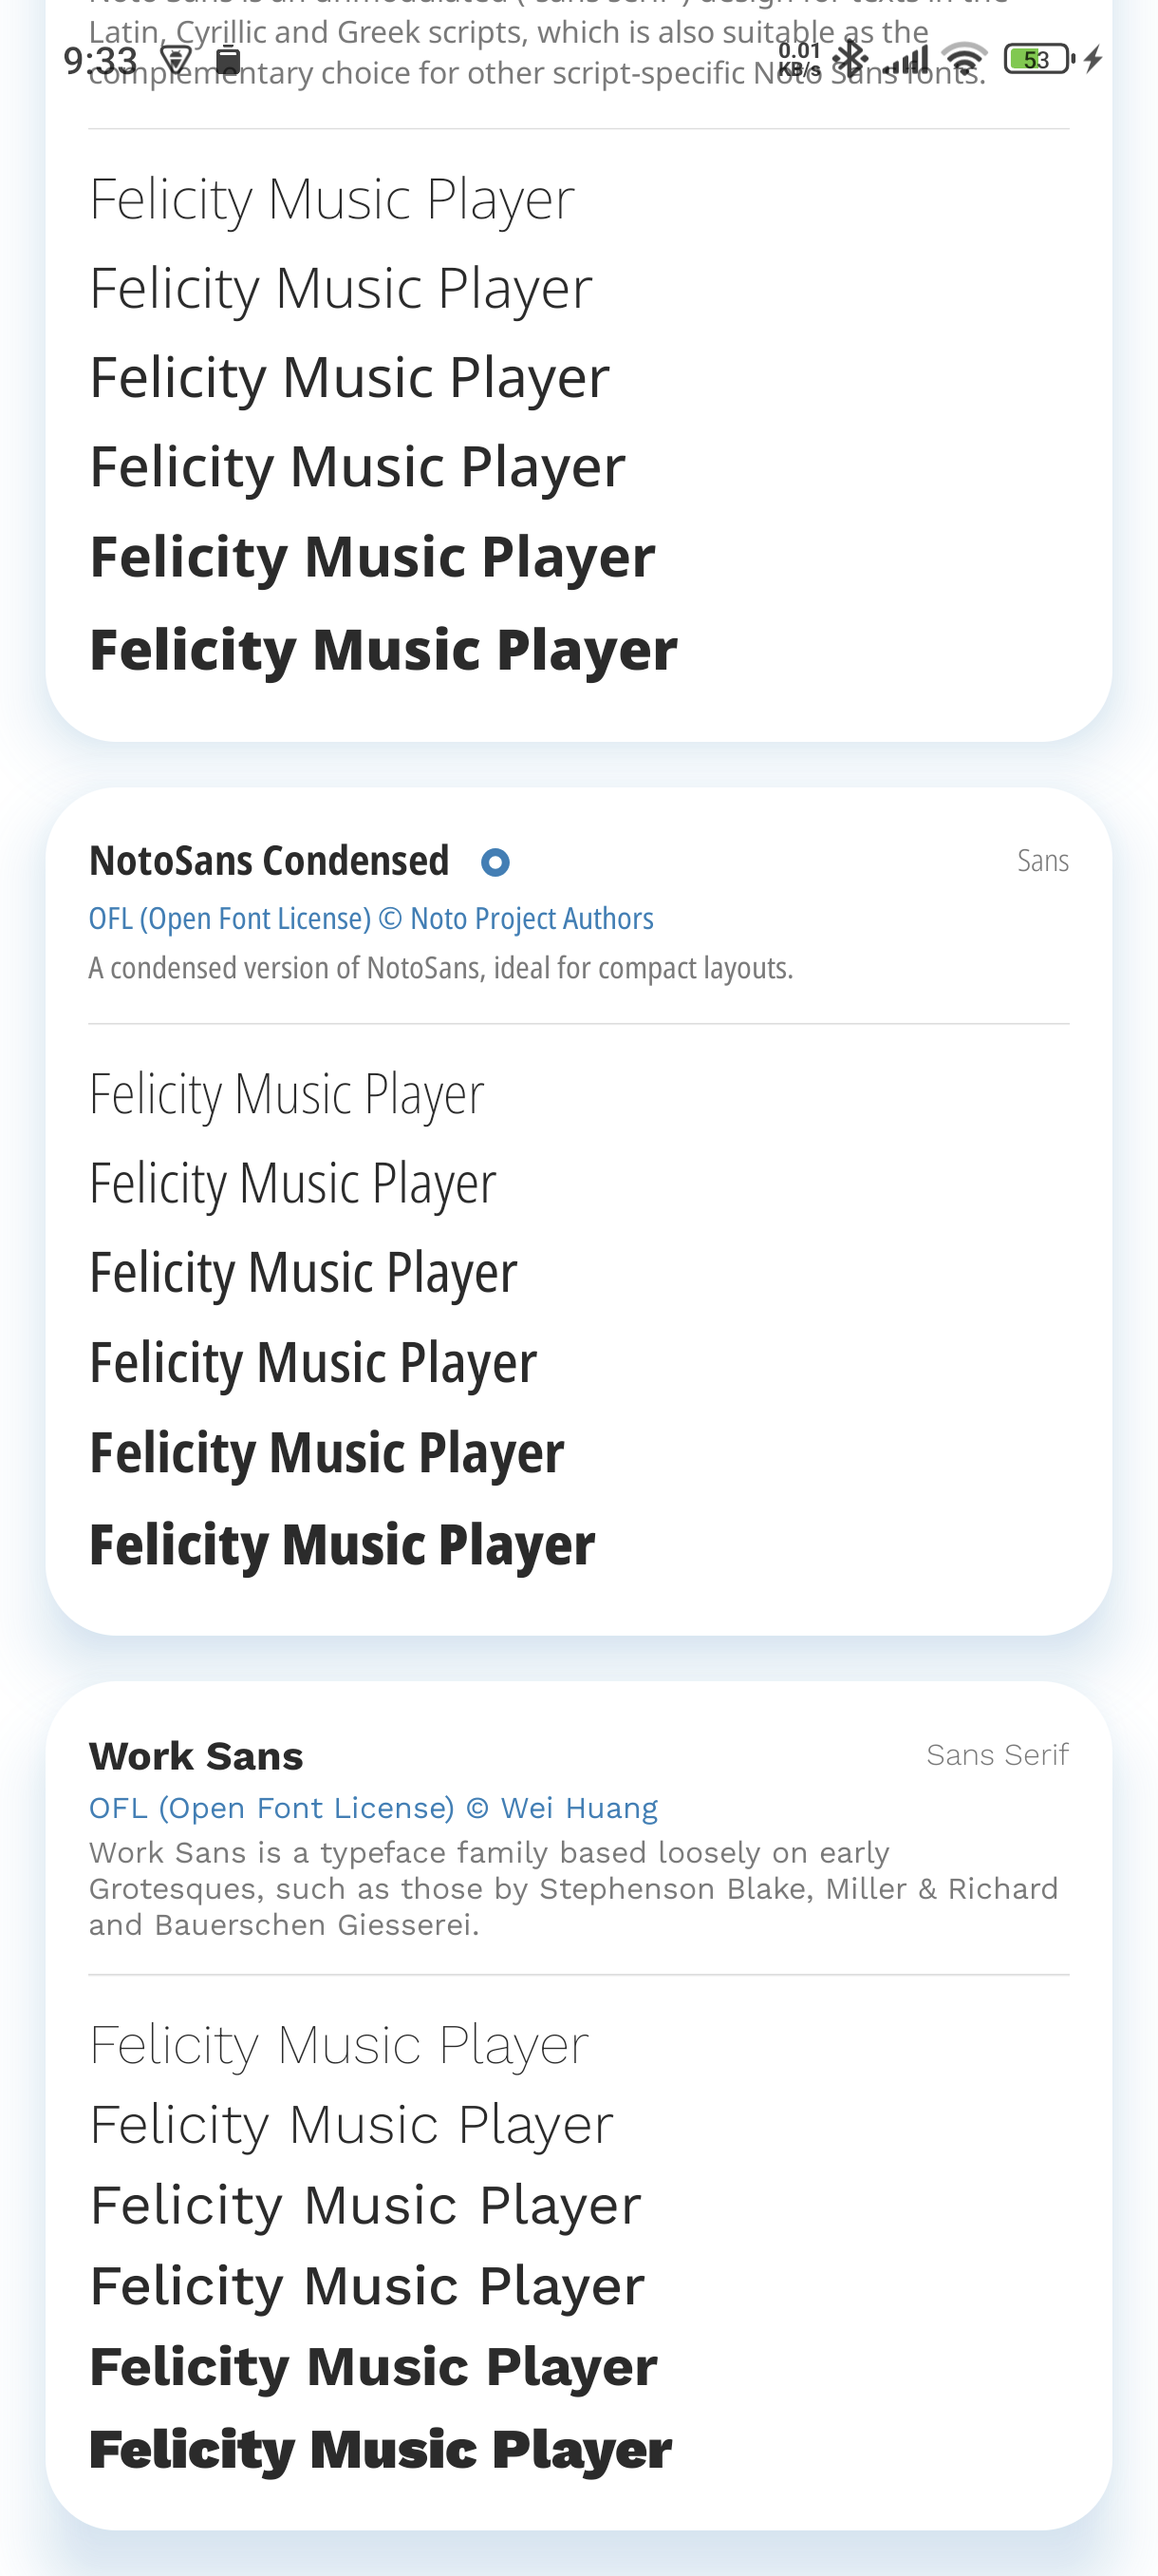
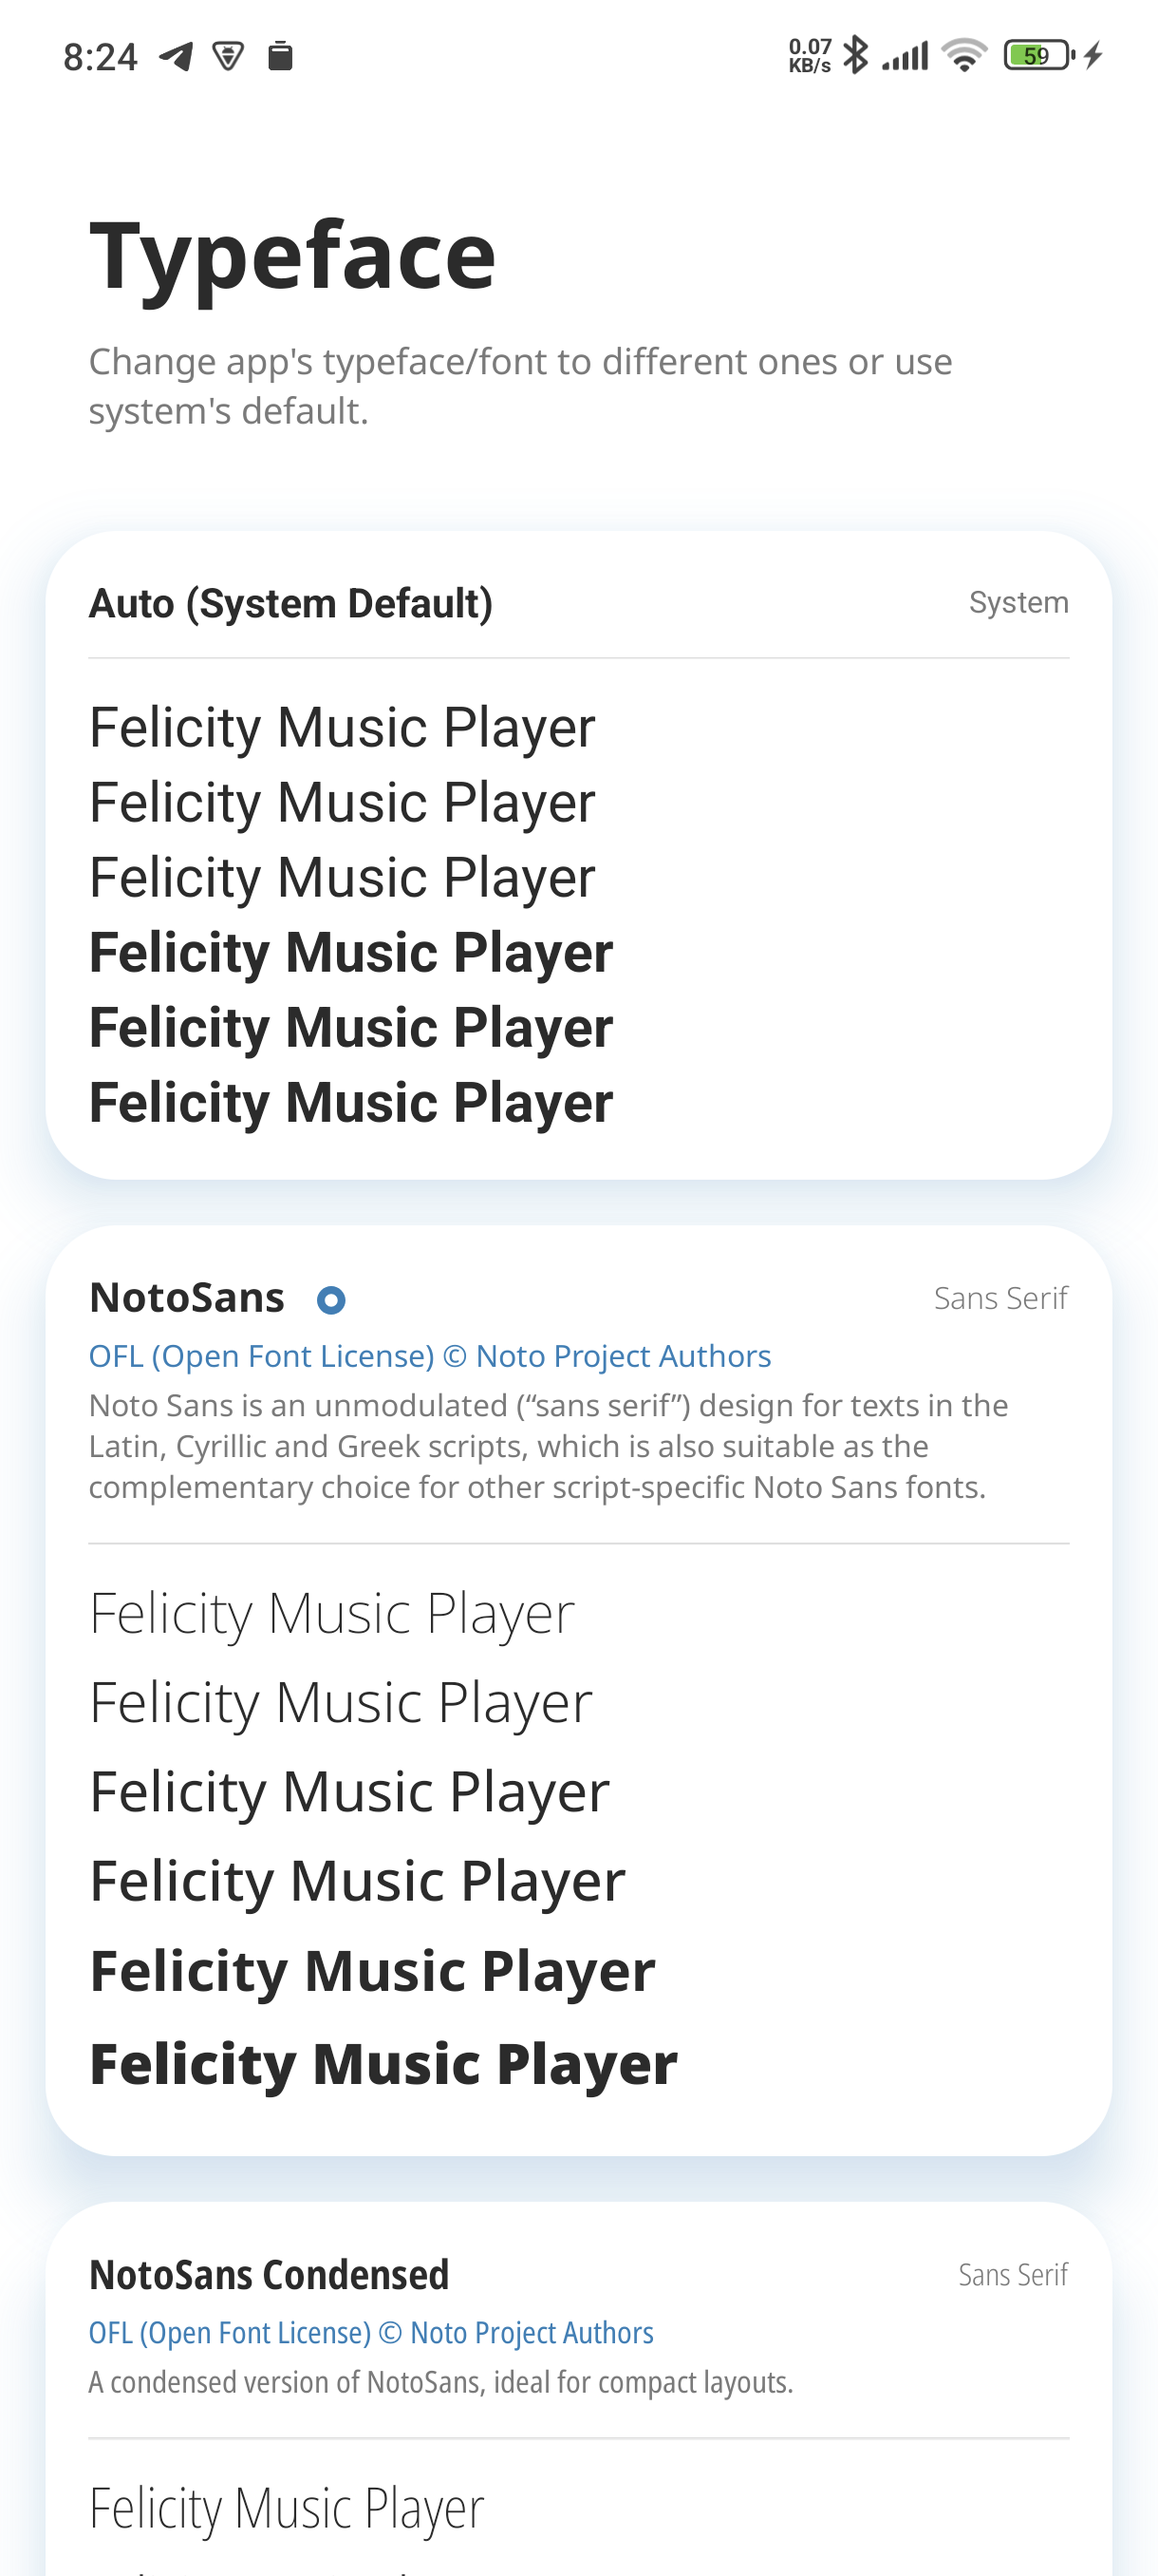
update: typeface style

diff --git a/music/src/main/java/app/simple/felicity/adapters/preference/AdapterTypefaceItem.kt b/music/src/main/java/app/simple/felicity/adapters/preference/AdapterTypefaceItem.kt
@@ -4,56 +4,74 @@ import android.view.LayoutInflater
 import android.view.ViewGroup
 import androidx.recyclerview.widget.RecyclerView
 import app.simple.felicity.R
+import app.simple.felicity.databinding.AdapterPreferenceHeaderBinding
 import app.simple.felicity.databinding.AdapterTypefaceItemBinding
 import app.simple.felicity.decorations.overscroll.VerticalListViewHolder
 import app.simple.felicity.decorations.typeface.TypeFace
 import app.simple.felicity.decorations.typeface.TypefaceStyle
+import app.simple.felicity.decorations.utils.RecyclerViewUtils
 import app.simple.felicity.preferences.AppearancePreferences
 
-class AdapterTypefaceItem : RecyclerView.Adapter<AdapterTypefaceItem.Holder>() {
+class AdapterTypefaceItem : RecyclerView.Adapter<VerticalListViewHolder>() {
 
     private val typefaces = TypeFace.list
 
-    override fun onCreateViewHolder(parent: ViewGroup, viewType: Int): Holder {
-        val binding = AdapterTypefaceItemBinding.inflate(LayoutInflater.from(parent.context), parent, false)
-        return Holder(binding)
+    override fun onCreateViewHolder(parent: ViewGroup, viewType: Int): VerticalListViewHolder {
+        when (viewType) {
+            RecyclerViewUtils.TYPE_HEADER -> {
+                val binding = AdapterPreferenceHeaderBinding.inflate(LayoutInflater.from(parent.context), parent, false)
+                return Header(binding)
+            }
+            RecyclerViewUtils.TYPE_ITEM -> {
+                val binding = AdapterTypefaceItemBinding.inflate(LayoutInflater.from(parent.context), parent, false)
+                return Holder(binding)
+            }
+            else -> throw IllegalStateException("unknown view type")
+        }
     }
 
-    override fun onBindViewHolder(holder: Holder, position: Int) {
-        val typeface = typefaces[position]
-        holder.binding.name.text = typeface.typefaceName
-        holder.binding.type.text = typeface.type
-        holder.binding.license.text = typeface.license
-        holder.binding.description.text = typeface.description
+    override fun onBindViewHolder(holder: VerticalListViewHolder, position: Int) {
+        if (holder is Holder) {
+            val typeface = typefaces[position - 1]
+            holder.binding.name.text = typeface.typefaceName
+            holder.binding.type.text = typeface.type
+            holder.binding.license.text = typeface.license
+            holder.binding.description.text = typeface.description
 
-        if (position == 0) {
-            holder.binding.license.visibility = ViewGroup.GONE
-            holder.binding.description.visibility = ViewGroup.GONE
-        } else {
-            holder.binding.license.visibility = ViewGroup.VISIBLE
-            holder.binding.description.visibility = ViewGroup.VISIBLE
-        }
+            if (position == 1) {
+                holder.binding.license.visibility = ViewGroup.GONE
+                holder.binding.description.visibility = ViewGroup.GONE
+            } else {
+                holder.binding.license.visibility = ViewGroup.VISIBLE
+                holder.binding.description.visibility = ViewGroup.VISIBLE
+            }
 
-        if (typeface.name == AppearancePreferences.getAppFont()) {
-            holder.binding.name.setCompoundDrawablesWithIntrinsicBounds(0, 0, R.drawable.ic_ring_12dp, 0)
-        } else {
-            holder.binding.name.setCompoundDrawablesWithIntrinsicBounds(0, 0, 0, 0)
-        }
+            if (typeface.name == AppearancePreferences.getAppFont()) {
+                holder.binding.name.setCompoundDrawablesWithIntrinsicBounds(0, 0, R.drawable.ic_ring_12dp, 0)
+            } else {
+                holder.binding.name.setCompoundDrawablesWithIntrinsicBounds(0, 0, 0, 0)
+            }
 
-        holder.binding.name.typeface = TypeFace.getTypeFace(typeface.name, TypefaceStyle.BOLD.style, holder.context)
-        holder.binding.license.typeface = TypeFace.getTypeFace(typeface.name, TypefaceStyle.REGULAR.style, holder.context)
-        holder.binding.description.typeface = TypeFace.getTypeFace(typeface.name, TypefaceStyle.REGULAR.style, holder.context)
-        holder.binding.type.typeface = TypeFace.getTypeFace(typeface.name, TypefaceStyle.LIGHT.style, holder.context)
-        holder.binding.extraLight.typeface = TypeFace.getTypeFace(typeface.name, TypefaceStyle.EXTRA_LIGHT.style, holder.context)
-        holder.binding.light.typeface = TypeFace.getTypeFace(typeface.name, TypefaceStyle.LIGHT.style, holder.context)
-        holder.binding.regular.typeface = TypeFace.getTypeFace(typeface.name, TypefaceStyle.REGULAR.style, holder.context)
-        holder.binding.medium.typeface = TypeFace.getTypeFace(typeface.name, TypefaceStyle.MEDIUM.style, holder.context)
-        holder.binding.bold.typeface = TypeFace.getTypeFace(typeface.name, TypefaceStyle.BOLD.style, holder.context)
-        holder.binding.black.typeface = TypeFace.getTypeFace(typeface.name, TypefaceStyle.BLACK.style, holder.context)
+            holder.binding.name.typeface = TypeFace.getTypeFace(typeface.name, TypefaceStyle.BOLD.style, holder.context)
+            holder.binding.license.typeface = TypeFace.getTypeFace(typeface.name, TypefaceStyle.REGULAR.style, holder.context)
+            holder.binding.description.typeface = TypeFace.getTypeFace(typeface.name, TypefaceStyle.REGULAR.style, holder.context)
+            holder.binding.type.typeface = TypeFace.getTypeFace(typeface.name, TypefaceStyle.LIGHT.style, holder.context)
+            holder.binding.extraLight.typeface = TypeFace.getTypeFace(typeface.name, TypefaceStyle.EXTRA_LIGHT.style, holder.context)
+            holder.binding.light.typeface = TypeFace.getTypeFace(typeface.name, TypefaceStyle.LIGHT.style, holder.context)
+            holder.binding.regular.typeface = TypeFace.getTypeFace(typeface.name, TypefaceStyle.REGULAR.style, holder.context)
+            holder.binding.medium.typeface = TypeFace.getTypeFace(typeface.name, TypefaceStyle.MEDIUM.style, holder.context)
+            holder.binding.bold.typeface = TypeFace.getTypeFace(typeface.name, TypefaceStyle.BOLD.style, holder.context)
+            holder.binding.black.typeface = TypeFace.getTypeFace(typeface.name, TypefaceStyle.BLACK.style, holder.context)
 
-        holder.binding.container.setOnClickListener {
-            AppearancePreferences.setAppFont(typeface.name)
-            notifyDataSetChanged()
+            holder.binding.container.setOnClickListener {
+                AppearancePreferences.setAppFont(typeface.name)
+                notifyDataSetChanged()
+            }
+        } else if (holder is Header) {
+            holder.binding.title.text = holder.context.getString(R.string.typeface)
+            holder.binding.summary.text = holder.context.getString(R.string.typeface_summary)
+            holder.binding.title.typeface = TypeFace.getTypeFace(AppearancePreferences.getAppFont(), TypefaceStyle.BOLD.style, holder.context)
+            holder.binding.summary.typeface = TypeFace.getTypeFace(AppearancePreferences.getAppFont(), TypefaceStyle.REGULAR.style, holder.context)
         }
     }
 
@@ -61,5 +79,15 @@ class AdapterTypefaceItem : RecyclerView.Adapter<AdapterTypefaceItem.Holder>() {
         return typefaces.size
     }
 
+    override fun getItemViewType(position: Int): Int {
+        return if (position == 0) {
+            RecyclerViewUtils.TYPE_HEADER
+        } else {
+            RecyclerViewUtils.TYPE_ITEM
+        }
+    }
+
     inner class Holder(val binding: AdapterTypefaceItemBinding) : VerticalListViewHolder(binding.root)
+
+    inner class Header(val binding: AdapterPreferenceHeaderBinding) : VerticalListViewHolder(binding.root)
 }

diff --git a/decorations/src/main/java/app/simple/felicity/decorations/typeface/TypeFaceTextView.kt b/decorations/src/main/java/app/simple/felicity/decorations/typeface/TypeFaceTextView.kt
@@ -225,6 +225,10 @@ open class TypeFaceTextView : AppCompatTextView, ThemeChangedListener, SharedPre
                 setTextColor(animate = true)
                 setDrawableTint(animate = true)
             }
+            AppearancePreferences.APP_FONT -> {
+                typeface = TypeFace.getTypeFace(AppearancePreferences.getAppFont(), fontStyle, context)
+                invalidate()
+            }
         }
     }
 

diff --git a/preferences/src/main/java/app/simple/felicity/preferences/AppearancePreferences.kt b/preferences/src/main/java/app/simple/felicity/preferences/AppearancePreferences.kt
@@ -23,7 +23,7 @@ object AppearancePreferences {
     const val THEME = "current_app_theme"
     const val ACCENT_COLOR = "app_accent_color"
     private const val ACCENT_COLOR_LIGHT = "app_accent_color_light"
-    private const val APP_FONT = "type_face"
+    const val APP_FONT = "type_face"
     const val ACCENT_ON_NAV = "accent_color_on_nav_bar"
 
     const val MAX_CORNER_RADIUS = 80F

diff --git a/decorations/src/main/java/app/simple/felicity/decorations/ripple/DynamicRippleMaterialCardView.java b/decorations/src/main/java/app/simple/felicity/decorations/ripple/DynamicRippleMaterialCardView.java
@@ -1,0 +1,29 @@
+package app.simple.felicity.decorations.ripple;
+
+import android.content.Context;
+import android.content.res.ColorStateList;
+import android.util.AttributeSet;
+
+import app.simple.felicity.decorations.corners.DynamicCornerMaterialCardView;
+import app.simple.felicity.theme.managers.ThemeManager;
+
+public class DynamicRippleMaterialCardView extends DynamicCornerMaterialCardView {
+    
+    public DynamicRippleMaterialCardView(Context context, AttributeSet attrs) {
+        super(context, attrs);
+        init();
+    }
+    
+    public DynamicRippleMaterialCardView(Context context, AttributeSet attrs, int defStyleAttr) {
+        super(context, attrs, defStyleAttr);
+        init();
+    }
+    
+    private void init() {
+        if (isInEditMode()) {
+            return;
+        }
+        
+        setRippleColor(ColorStateList.valueOf(ThemeManager.INSTANCE.getAccent().getPrimaryAccentColor()));
+    }
+}
